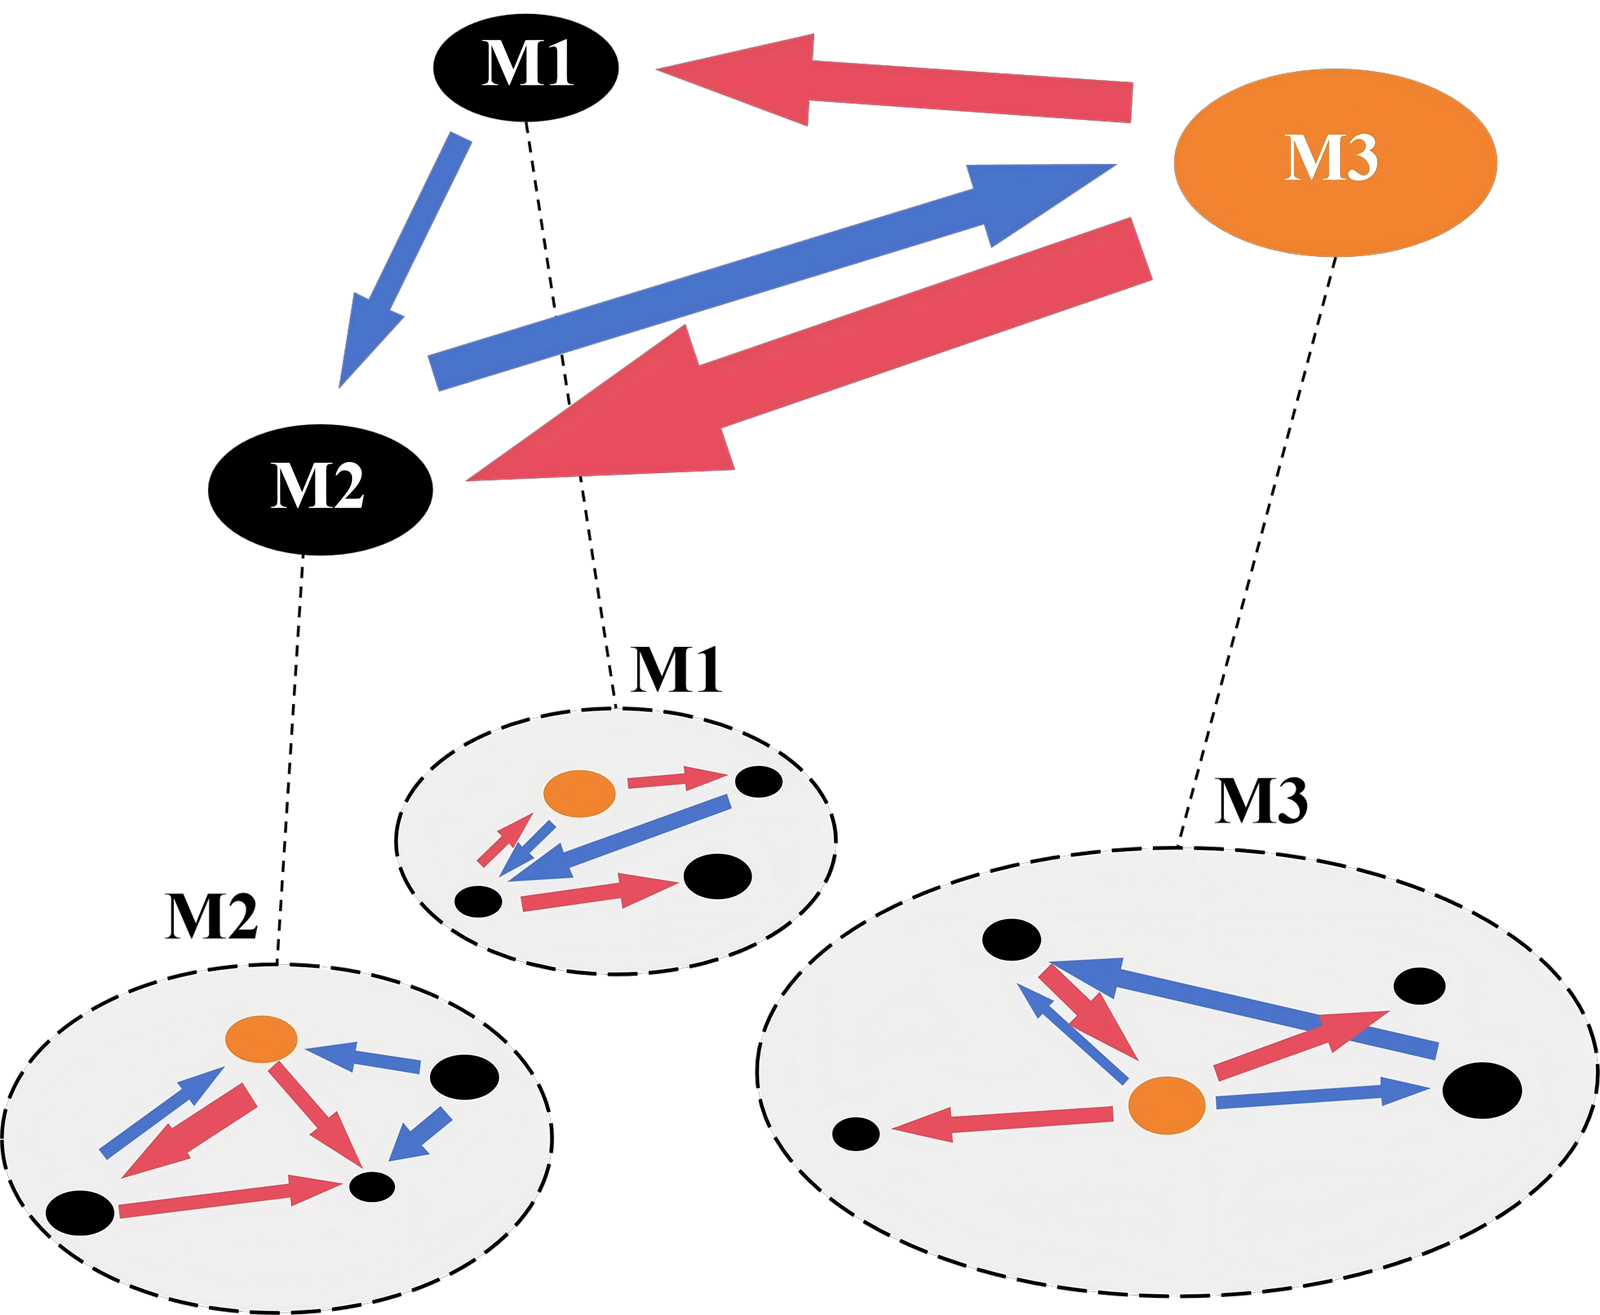
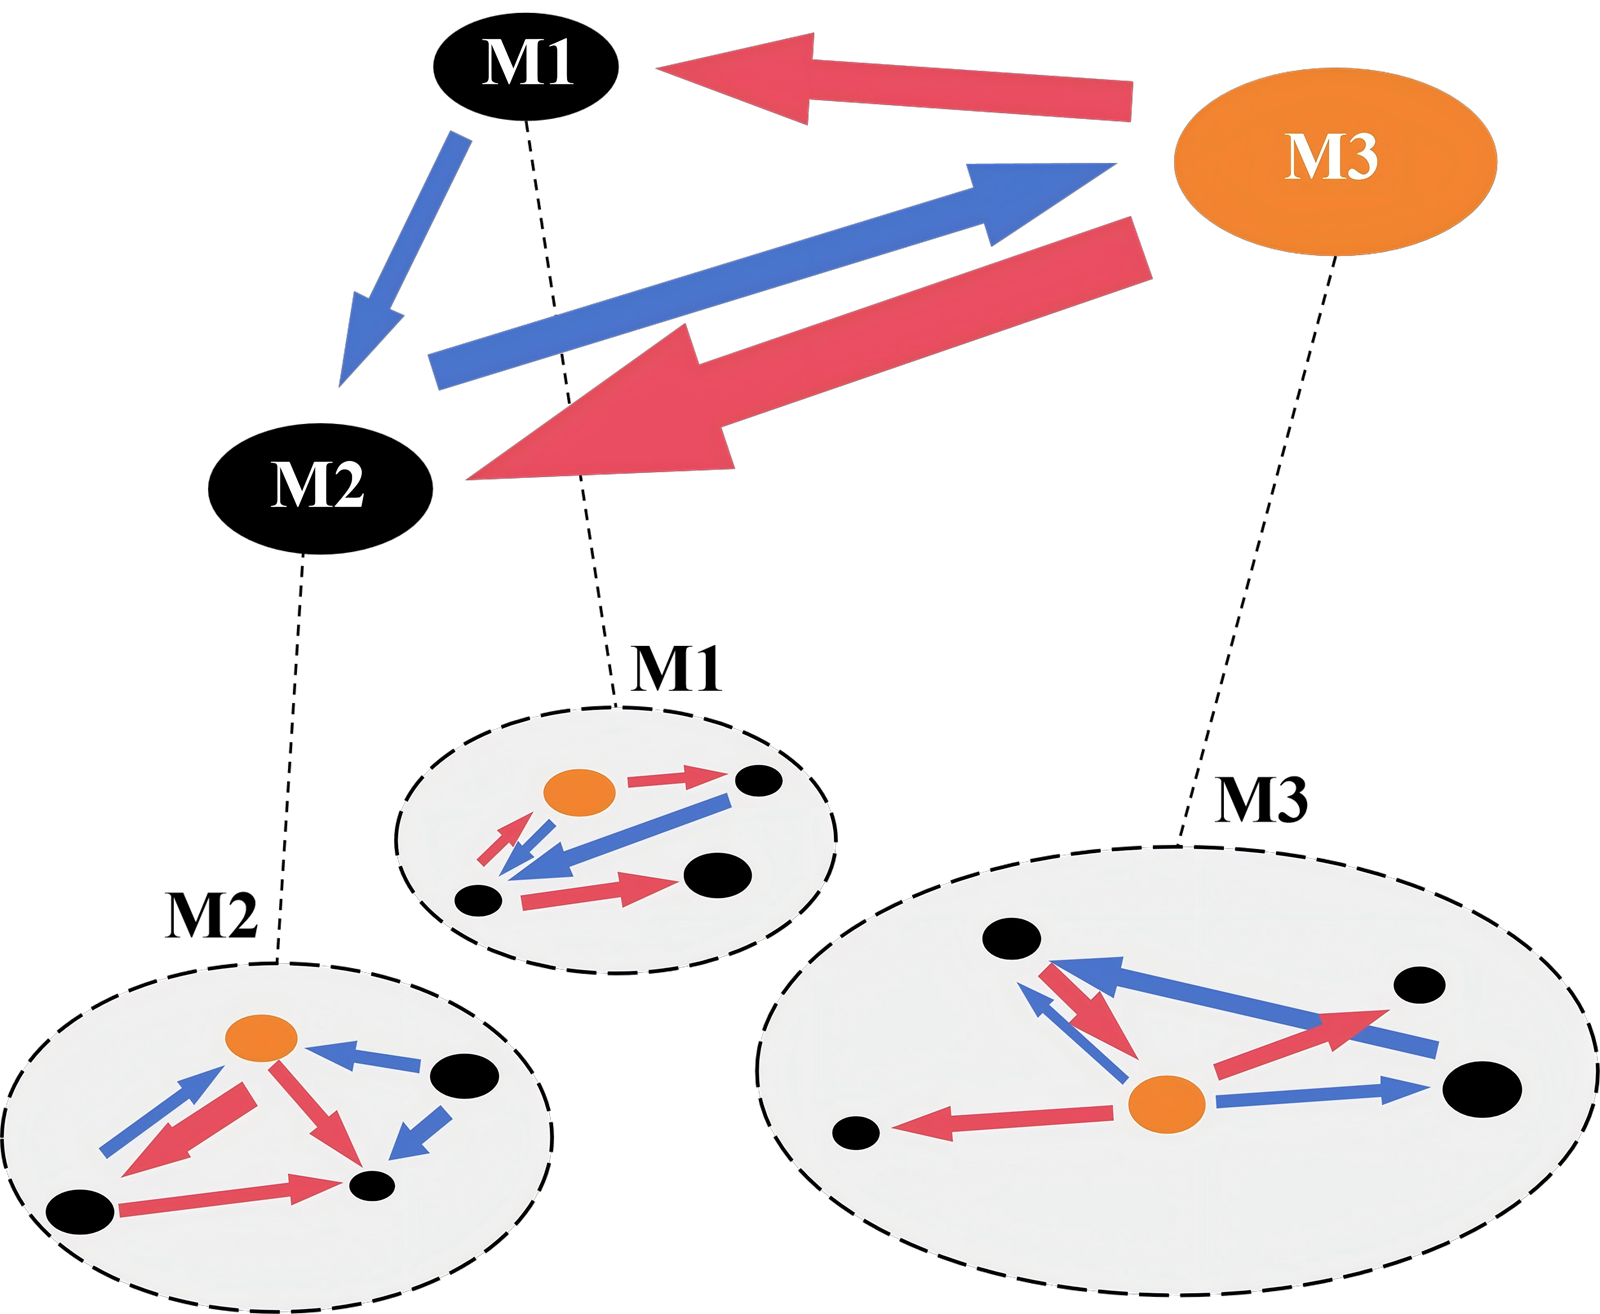
首页卷首：网络示意图缩小并与文字并排，去掉白色卡片

diff --git a/packages/idopnetwork-app/src/idopnetwork_app/static/css/home.css b/packages/idopnetwork-app/src/idopnetwork_app/static/css/home.css
@@ -26,22 +26,12 @@ h1.home-title {
 }
 .home-greeting { color: #bddaff; margin: 0 0 .65rem; font-weight: 600; overflow-wrap: anywhere; }
 .home-intro { color: #e2edfb; max-width: 38em; margin: .5rem 0; }
-/* 卷首网络示意图：白底卡片，避免直接压在深色横幅上 */
-.st-key-home-hero-figure {
-    max-width: min(100%, 30rem);
-    margin: .95rem 0 .6rem;
-    padding: clamp(.4rem, .9vw, .75rem);
-    background: #ffffff;
-    border: 1px solid #ffffff;
-    border-radius: 14px;
-    box-shadow: 0 18px 38px #0a1b3055;
-}
+/* 卷首网络示意图：透明底，直接浮在深色横幅上，无卡片 */
 .st-key-home-hero-figure [data-testid="stImage"] { justify-content: center; }
 .st-key-home-hero-figure img {
     display: block;
     width: 100% !important;
     height: auto;
-    border-radius: 8px;
 }
 .idop-badges {
     display: flex; gap: .4rem 1rem; flex-wrap: wrap;

diff --git a/packages/idopnetwork-app/src/idopnetwork_app/Home.py b/packages/idopnetwork-app/src/idopnetwork_app/Home.py
@@ -34,27 +34,31 @@ with col_hero1:
     greeting = f"欢迎回来，{escape(str(st.session_state['current_user']))}" if logged_in else "复杂系统在线计算平台"
     st.markdown(f"<p class='home-greeting'>{greeting}</p><h1 class='home-title'>idopNetwork</h1>", unsafe_allow_html=True)
 
-    with st.container(key="home-hero-figure"):
-        st.image(_HERO_FIGURE, width="stretch")
+    text_col, figure_col = st.columns([1.35, 1], gap="large", vertical_alignment="center")
 
-    st.markdown("""
-    <p class='home-intro'>
-        idopNetwork 是一套基于 <b>邬荣领教授</b> 提出的统计力学框架构建的复杂系统分析体系。
-        通过将静态的观测数据映射到高维拓扑空间，我们能够突破传统统计学的局限，实现对系统内部运作机理的深度还原。
-    </p>
-    """, unsafe_allow_html=True)
+    with text_col:
+        st.markdown("""
+        <p class='home-intro'>
+            idopNetwork 是一套基于 <b>邬荣领教授</b> 提出的统计力学框架构建的复杂系统分析体系。
+            通过将静态的观测数据映射到高维拓扑空间，我们能够突破传统统计学的局限，实现对系统内部运作机理的深度还原。
+        </p>
+        """, unsafe_allow_html=True)
 
-    st.markdown("""
-    <div class="idop-badges">
-        <div class="badge-item" title="将复杂数据转化为可解释的生物/物理逻辑">Informative</div>
-        <div class="badge-item" title="刻画系统随时间与环境变化的演化轨迹">Dynamic</div>
-        <div class="badge-item" title="覆盖从分子到表型的全尺度互作网络">Omnidirectional</div>
-        <div class="badge-item" title="生成针对单样本或个体的特异性精准分析">Personalized</div>
-    </div>
-    """, unsafe_allow_html=True)
+        st.markdown("""
+        <div class="idop-badges">
+            <div class="badge-item" title="将复杂数据转化为可解释的生物/物理逻辑">Informative</div>
+            <div class="badge-item" title="刻画系统随时间与环境变化的演化轨迹">Dynamic</div>
+            <div class="badge-item" title="覆盖从分子到表型的全尺度互作网络">Omnidirectional</div>
+            <div class="badge-item" title="生成针对单样本或个体的特异性精准分析">Personalized</div>
+        </div>
+        """, unsafe_allow_html=True)
 
-    if not logged_in and st.button("登录 / 注册", type="primary"):
-        show_auth_modal()
+        if not logged_in and st.button("登录 / 注册", type="primary"):
+            show_auth_modal()
+
+    with figure_col:
+        with st.container(key="home-hero-figure"):
+            st.image(_HERO_FIGURE, width="stretch")
 
 with col_hero2.container(key="home-profile"):
     st.image(_WU, width="stretch")
